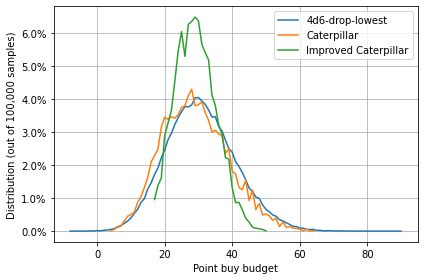
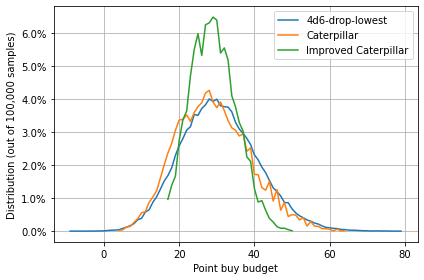
Update documentation

diff --git a/searchindex.js b/searchindex.js
@@ -1,1 +1,1 @@
-Search.setIndex({docnames:["alternatives","arrays","body","code","context","individual-stats","intro"],envversion:{"sphinx.domains.c":2,"sphinx.domains.changeset":1,"sphinx.domains.citation":1,"sphinx.domains.cpp":3,"sphinx.domains.index":1,"sphinx.domains.javascript":2,"sphinx.domains.math":2,"sphinx.domains.python":2,"sphinx.domains.rst":2,"sphinx.domains.std":2,"sphinx.ext.intersphinx":1,"sphinxcontrib.bibtex":7,sphinx:56},filenames:["alternatives.ipynb","arrays.ipynb","body.md","code.ipynb","context.md","individual-stats.ipynb","intro.md"],objects:{},objnames:{},objtypes:{},terms:{"000":5,"00000":[],"000000":3,"0083":[],"028320":[],"031000":[],"041726":[],"051224":[],"053691":[],"054968":[],"055325":[],"057972":[],"0614":[],"063932":[],"0664":[],"066674":[],"067291":[],"068864":[],"069552":[],"070100":[],"073866":[],"077063":[],"077584":[],"0785":[],"080301":[],"081265":[],"082147":[],"084965":3,"085074":[],"085607":[],"085847":[],"086427":[],"086691":[],"086706":[],"086803":[],"087960":[],"088016":[],"088424":3,"088609":[],"08866":[],"089550":[],"090269":[],"090514":[],"092030":[],"093246":[],"093491":[],"094415":[],"094569":[],"0967":[],"097396":[],"099887":[],"0x210aad12e48":[],"0x298aa08a948":[],"100":5,"1000":[],"10000":[],"100000":[1,3],"100_000":3,"103266":[],"105":[],"105852":[],"106":[],"107":[],"108":[],"109":[],"110872":[],"112184":[],"113417":[],"113421":[],"115059":[],"117046":[],"118388":[],"123709":[],"125576":[],"126081":[],"1318":[],"13th":[1,3],"13th_age_fig":3,"13th_age_stat":3,"143":[],"1435":[],"144":[],"145":[],"146":[],"147":[],"147069":[],"1541":[],"1639":[],"1656028701":[],"1777":[],"1916":[],"19680801":[],"1_000":[],"2014":[],"2020":[],"2021":[],"2026338885":[],"211333":[],"2191868119":[],"227500":[],"228833":[],"229500":[],"233667":[],"23522014":[],"236667":[],"239667":[],"2400429775":[],"243157":3,"243158":[],"244555":[],"245000":[],"246667":[],"247675":[],"249162":[],"2522":[],"253877":[],"255000":[],"255333":[],"257000":[],"261333":[],"261667":[],"2642":[],"268833":[],"275167":[],"276333":[],"276667":[],"2950123795":[],"3013065630":[],"3023713000":[],"309167":[],"3106":[],"315000":[],"319833":[],"3763001284":[],"3d6":[],"4004147693":[],"407412":[],"412506":[],"4d6":[0,1,3,5,6],"4d6kh3":[],"600":5,"6000":[],"60000":[],"600000":[3,5],"612":[],"721684543":[],"750000":[],"7624":[],"7625":[],"7626":[],"7627":[],"7628":[],"78902":[],"791553":[],"792663":[],"795265":[],"800671":[],"805700":[],"805902":[],"807665":[],"812292":[],"813536":[],"815964":[],"818035":[],"819277":[],"819573":[],"820578":[],"821937":[],"822586":[],"825212":[],"827012":[],"828279":[],"828722":[],"829114":[],"829493":3,"829606":[],"829622":[],"830347":[],"831884":[],"833077":[],"83313":[],"834138":[],"838252":[],"842086":[],"842712":[],"846277":[],"847120":3,"847441":[],"848419":[],"84974":[],"849791":[],"850204":[],"850411":[],"851184":[],"854428":[],"854762":[],"85716":[],"858":[],"859":[],"860":[],"861":[],"861667":[],"862":[],"866966":[],"867438":[],"872448":[],"878500":[],"879489":[],"880119":[],"881756":[],"886":[],"887":[],"888":[],"889":[],"890":[],"894259":[],"903967":[],"907500":[],"915833":[],"924167":[],"925000":[],"927167":[],"929333":[],"934000":[],"934833":[],"938500":[],"940167":[],"941667":[],"941833":[],"943333":[],"947667":[],"950500":[],"952000":[],"952833":[],"95428":[],"954475":[],"956167":[],"956742":[],"957040":[],"957445":[],"957513":[],"957833":[],"958087":3,"958333":[],"958365":[],"958833":[],"958902":[],"959000":[],"959403":3,"959513":[],"959833":[],"960167":[],"960278":[],"960833":[],"962500":[],"963167":[],"966167":[],"967167":[],"967500":[],"969333":[],"971500":[],"972500":[],"975333":[],"979833":[],"983833":[],"985167":[],"990500":[],"case":[],"class":[],"default":[],"final":1,"function":[0,3],"import":[3,4],"int":[],"new":[],"return":[],"short":[],"true":3,"try":1,"while":[0,1,4],Age:[1,3],And:0,But:[],FOR:[],For:[0,1,6],One:1,The:[0,1,4,5],There:[0,1,4,6],These:[2,4],Using:0,__array_function__:[],__init__:[],__str__:[],__version__:[],_api:[],_distributor_init:[],_get_implementing_arg:[],_ioncontext:[],_multiarray_umath:[],abil:[1,3],abl:4,about:[1,2,4],abov:[0,1,3],accept:1,achiev:[1,4],acknowledg:0,across:1,activ:[],actual:[4,6],add:[1,4,6],add_:[],add_docstr:[],adding:0,addit:4,adequ:0,adopt:1,advantag:0,advic:[],again:[0,1,3],aim:[],albeit:1,align:[],all:[0,1,2,4,5,6],allow:[0,4],alreadi:1,also:[0,1,4,5,6],altern:[1,2],although:0,alwai:1,amd64:[],amount:1,anaconda3:[],analys:3,analysi:3,ani:0,anoth:[1,4],answer:1,anti:0,appdata:[],appeal:[],appear:5,append:3,applymap:3,approach:[],area:[2,4],arg:[],argument:[],around:0,arrai:[2,3,4],articl:[2,4],as_index:[],associ:[],assur:[],attribut:[],attributeerror:[],auditori:[],australia:[],avail:2,averag:[0,1,4],avoid:[0,4],axes:3,axi:3,back:[4,6],bad:[0,6],balanc:[1,4],bar:[],base:[0,1,4],basi:[],becaus:[0,1],becom:[2,4],been:0,befor:1,beg:5,begin:[],being:[0,6],believ:0,belli:6,bello:[],below:[0,1,3,5],better:[0,1,4,6],between:[0,1,5],bib:[],bibliographi:[],bibtex:[],bit:1,bjtja:[],block:[],blog:[2,4],blue:5,board:1,bonus:4,book:2,bool:[],both:[1,5],bother:5,bottom:[0,4,6],box:[],brian:[],brisban:[],budget:[0,1,3],bui:[0,1,3],build:4,built:[],calcul:[0,1],call:4,can:[0,2,4,5],carefulli:[],caterpillar:[0,1,3,5,6],caterpillar_stat_arrai:3,caterpillar_stat_array2:3,caterpillar_with_one_random_di:3,cbook:[],cell:[],centr:[4,6],certain:[],challeng:4,chanc:[0,1],chang:[4,6],chapter:2,charact:[0,1,2,4,5],chart:0,check:[],choic:4,choos:4,christoph:[],cite:[],clever:4,click:[],close:[],closer:[0,1],cmap:[],code:[0,2],cognit:[],col:[],cold:[],color:[],colour:1,column:3,com:[],command:[],comment:[],commentari:0,common:4,commonmark:[],compar:[0,2,4,5],compat:[],compel:0,compil:[],complex:5,comput:[],con:0,concat:3,condit:[],confer:[],confirm:1,consid:[0,1,2,4,5],consider:0,consist:[1,4,5],constrain:0,constraint:4,content:[],context:2,continu:5,contrast:0,convert:1,coolwarm:[],core:[],corr_fig:3,correct:[],correctli:4,correl:[0,3],correlationanalysi:3,corrobor:5,cortex:[],cost:[1,3],could:0,count:[1,3,5],coupl:0,cover:1,creat:[2,3,4],create_count:3,creation:[2,4],criteria:[],cube:[4,6],curv:5,custom_lin:[],cycler:[],data:[],datafram:3,dataframegroupbi:[],decid:1,decim:3,def:[],defin:[],definit:[],degre:0,demonstr:5,depend:[],deprec:[],describ:3,desiderata:[],design:4,despit:0,det:[],determinist:4,devdoc:[],deviat:[0,1,5],dice:[0,1,2,4],die:1,differ:[0,1,2,4],differen:1,difficult:4,directli:[],discuss:1,displai:3,distribut:[0,1,3,5],divers:0,dll:[],dnd2021:[],doc:[],docstr:[],document:[],doe:[0,1,5],doesn:[0,4,6],dollar:[],don:4,done:[],dot:[],downsid:0,drop:[0,1,3,5,6],dropna:[],due:[],dungeon:4,dure:[],each:[0,1,2,4,5],easi:4,easili:4,ecosystem:[],effect:[0,1],either:[],elif:[],els:[],emb:[],encount:[1,4],end:[],enough:[],ensur:[],entir:[],enumer:[],env:[],env_ad:[],envkei:[],equal:[4,6],error:[],escap:[],etc:[],even:[0,1],everyth:1,evid:[],exampl:[1,6],exc:[],except:[],exclus:[],exe:[],execut:[],exist:[],expect:[0,1,4],expos:[4,6],extend:[1,3],extens:[],extent:[],extrem:1,face:[0,1,4,6],fail:[],fairli:5,fall:[],fals:3,featur:0,feel:[0,4],felt:[],few:4,fifth:0,fig:3,fig_13th_ag:3,fig_one_random:3,figsiz:3,figur:1,find:5,first:[1,4],five:4,fix:[],flavor:[],focu:1,focus:[],follow:[1,4,5,6],forc:0,format:3,former:1,found:5,four:[1,4],four_d_six_drop_lowest:3,fourth:0,frame:[],from:[0,1,3],front:[4,6],front_fac:[],front_face_coord:[],frontier:[],fun:1,function_bas:[],further:1,game:1,gener:[0,1,2,3,4,5,6],get:4,get_adjacent_edg:[],get_dic:[],get_group:[],github:[],given:1,glue:3,gnu:[],goal:1,goblin:[1,2,5,6],good:[0,1,2,4,6],gpr:[],graph:[0,3],green:5,grid:3,group_kei:[],groupbi:3,grouper:[],guid:[],had:[],hand:0,handl:[],happen:[],happi:1,hard:1,harder:4,has:[0,1,5],have:[0,1,4,5],hdhpk14:[],heer:[],hello:[],help:1,henc:[],henchman:[2,4],here:[0,1],hidden:0,hide:[],high:[0,1,4],higher:[1,5],highest:[1,4],hobgoblin:[],holdgraf:[],holdgraf_evidence_2014:[],hot:[],how:[0,2,4,5],howev:[0,1,4,5],html:[],http:[],human:[],hybrid:0,icon:[],idea:4,ideal:1,ignor:4,imag:[],impact:1,implement_array_funct:[],importerror:[],importlib:3,improv:[0,1,2,3,5],in_axi:[],includ:[],incompat:[],increas:1,incred:[0,4],independ:0,index:3,indic:[1,6],individu:[0,2],inform:[],init:[],initi:4,input:[],insert:[],insid:[],insignific:[],instal:[],instead:[0,4,6],intel:[],intelpython:[],interact:4,interest:1,intern:[],interquartil:0,intro:[],introduc:2,intuit:[0,1],invalid:[],investig:[],involv:[2,4],ion:[],ipykernel_10660:[],ipykernel_11240:[],ipykernel_11548:[],ipykernel_12928:[],ipykernel_13936:[],ipykernel_14060:[],ipykernel_14752:[],ipykernel_17760:[],ipykernel_17944:[],ipykernel_18496:[],ipykernel_18508:[],ipykernel_20584:[],ipykernel_21276:[],ipykernel_2168:[],ipykernel_21932:[],ipykernel_22876:[],ipykernel_24016:[],ipykernel_25264:[],ipykernel_26620:[],ipykernel_27904:[],ipykernel_28524:[],ipykernel_7012:[],ipynb:[],isinst:[],issu:[],item:3,iter:3,its:[],job:4,jul:[],jupyt:[],jupytext:[],just:1,keep:0,kei:[1,3],kernel:[],keyboardinterrupt:[],keyerror:[],kind:[],knight:[],know:[],kwarg:[],la_:[],label:3,lack:0,lambda:3,languag:[],larg:1,larger:5,last:[],later:4,latter:1,launch:[],lead:4,left:[0,4,6],left_fac:[],left_face_coord:[],left_face_idx:[],legend:3,less:[0,1,4],let:2,level:4,lib:[],lighter:1,like:[0,1,4],linalg:[],line2d:[],line:[3,5],line_plot:3,linear:0,link:[1,3],linspac:[],list:[],listcomp:[],live:[],load:[],loc:3,local:[],logspac:[],look:[0,1,2,5],lot:0,low:[0,1,4],lower:[0,1,4,5],lowest:[0,1,3,5,6],mai:[0,1,4],make:[0,1,4],mani:1,markedli:[],markup:[],master:4,math:[],matplotlib:3,matplotlibdeprecationwarn:[],matplotlylib:[],matter:0,max:[0,1,3,5],mayb:[],mbox:[],mean:[0,1,3,5],meanwhil:5,measur:1,medium:[],meet:[],merit:1,metadata:[],method:[1,2,5,6],million:[],min:[0,1,3,5],minimum:0,miss:[],mkl:[],modul:[],modulenotfounderror:[],more:[0,1,4,5],moreoev:[],most:[0,4,6],mostli:[],mpldeprec:[],msc:[],msg:[],mtick:[],much:[0,4],multiarrai:[],multipl:2,must:[],mutat:[],mybind:[],mydirectivenam:[],myst_nb:3,name:[],narrow:[0,1],nbsp:[],ncol:3,need:0,neg:[0,1],neurosci:[],next:[0,1,4,5],nodefault:[],none:[],normal:[1,3],note:1,notebook:[],notic:[],nov:[],now:1,nsigfig:3,num_ability_scor:3,num_iter:3,num_sampl:3,number:[0,1,2,4],numer:4,numpi:[],obj:[],object:[],observ:[],occur:1,offset:[0,1],often:[],onc:[],one:[0,1,4,6],one_random_fig:3,one_random_stat:3,onedr:[],onli:[0,1,3,4,6],openmp:[],oper:[],opinion:1,oppos:0,opposit:[1,4],option:0,org:[],origin:1,other:[0,1,2,4,6],our:1,out:3,outlin:1,output:[],over:[],overal:[0,5],overrid:[],own:[0,2],packag:[],page:[],pair:1,panda:3,pandashelp:3,part:4,parti:[1,4],partial:0,paslei:[],path:3,pattern:[],peak:0,penalti:4,peopl:1,per:1,percent_formatt:3,percentformatt:3,perform:[0,4,5],person:0,pinv:[],player:[0,1,4,6],pleas:[],plot:3,plotli:[],plt:3,point:[0,1,3],point_bui:3,point_buy_13th_ag:3,point_buy_cost:3,point_buy_costs_df:3,point_buy_count:3,point_buy_dict:3,point_buy_dist_fig:3,point_buy_fig:3,point_buy_one_random:3,point_buy_orig:3,point_buy_summ:3,popular:1,posit:1,possibl:[1,4,5],post:[],potenti:0,power:[0,1,4],pre:[],predict:[],prefer:[0,1],previou:[],primari:1,print:[],pro:0,probabl:[1,6],process:4,produc:[1,5],prop_cycl:[],properli:[],provid:[0,2],pure:0,purport:4,purpos:[],pyplot:3,python3:[],python:3,question:5,rais:[],ramsai:[],ran:5,randint:[],randn:[],random:[0,1],randomis:4,randomli:0,rang:[0,1,3,5],rather:1,rcparam:[],rcsetup:[],read:[],readi:[],realli:[0,6],reason:[],recal:1,receiv:4,recent:[2,4],record:3,reduc:[0,1,4,6],refer:0,reflect:[0,1],regular:[],reinforc:5,rel:0,relationship:1,reload:3,render:[],repeat:4,replac:3,replic:6,report:[],report_t:[],reportt:[],repres:[1,2,4],reproduc:[],requir:[0,1,4],respect:0,rest:[],result:[0,1,4,5],right:[0,1,4,6],robert:[],rocket:[],role:[],rolenam:[],roll:[1,2,3,4,6],rolled_di:[],rotat:[],roughli:[],row:[],rule:4,run:[],runtimewarn:[],safe:[],sai:1,same:[0,1,2,4,5],sampl:3,sanitize_sequ:[],saw:[],scenario1:3,scenario2:3,scenario3:3,scenario4:3,scenario:3,scenarios_df:3,schedul:[1,3],scipi:[],score:[1,3,5],seciton:[],second:1,section:[0,1,4,5],see:[0,1],seed:[],seem:[0,1,4],seen:[0,1,5],select:[],self:[],sens:[0,1],separ:1,serv:[],servic:[],session:1,set:[3,6],set_major_formatt:3,set_xlabel:3,set_ylabel:3,set_ylim:3,setup:[],shape:[0,5],share:[2,4],ship:[],should:[],show:[0,1,2,4],show_stats_distribut:[],show_summary_statistics_stat:[],shown:[0,1],side:[1,2,4],sig_fig:3,sign:[],significantli:0,similar:[0,1,2,5],simpl:[0,1],simpler:0,simplest:[],simpli:0,simul:[],singl:1,site:[],situat:0,six:[1,2,4],sixth:0,skew:0,slight:[],slightli:[0,1,5],small:[0,1,2],smoother:5,solv:[],some:[0,1,2,4,5,6],someth:1,sometim:[],somewhat:0,sort:[],sound:[],span:[],spatial:[],specif:1,specifi:[],sphinx:[],spread:[0,1],squeez:[],src:3,stand:[],standard:[0,1,4,5],stat:[2,3,4,6],stat_arrai:[],stat_count:3,stat_gener:3,stat_label:3,statarrai:3,state:[],statist:[],stats_13th_ag:3,stats_above_13:3,stats_above_15:3,stats_arrays_to_pd:3,stats_below_10:3,stats_distribution_fig:3,stats_one_random:3,stats_to_gener:3,std:[1,3,5],stddev:[],still:0,store:[],str:3,strength:0,strong:[0,4,5],stronger:1,structur:[],studi:[],subject:[0,4],subplot:3,suggest:0,sum:[0,1,3,4,6],summari:3,summary_point_buy_df:3,summary_stat:3,summary_stats_df:3,suppos:1,supralinear:1,sure:[],symmetri:0,syntax:[],sys:3,tabl:1,tablesj:[],tag:[],tandem:[],techniqu:1,temp:[],tend:1,test_update_pi:[],tex:[],text:[],than:[0,1,4,5],thei:[0,1],them:4,therefor:[],thi:[0,1,2,4,5,6],think:[],third:[],thirtheenth_ag:3,those:[1,2],three:[1,2,4,5],through:1,thu:1,ticker:3,tight_layout:3,time:[],tip:[],tool:[],top:[1,4,6],top_and_front_fac:[],top_and_front_posit:[],top_fac:[],top_face_coord:[],total:[1,3],totals_13th_ag:3,totals_one_random:3,traceback:[],transform:[],troubleshoot:[],true_divid:[],tweak:4,two:[0,1,5],type:1,typeerror:[],under:[0,1,2,4,5],underneath:5,understand:1,undesir:1,unfamiliar:[1,2],unimport:0,union:[],uniqu:[],unrolled_di:[],upsid:0,use:[0,4],used:[0,1],user:[],userwarn:[],uses:[],using:[0,2,4,5],usual:0,valid:[],valu:1,valuabl:0,vari:5,variabl:[0,4],variat:1,veri:[0,1,4,5],verifi:5,version:[],version_info:[],viabl:0,view:5,visibl:[0,5],volatil:[],vstack:[],wai:[0,1,4],wait:[],want:1,weak:[0,4],weaker:[0,1],weakref:[],well:[],wendi:[],were:[],what:[4,5],when:[1,2,5],whenev:1,where:0,wherea:[],whether:[],which:[0,1,2,4,5],who:4,why:5,widget:[0,2],window:[],wise:1,within:[],without:[],work:4,worri:[],wors:0,would:[1,4],write:[],written:[],xmax:3,yaxi:3,yellow:5,you:[0,2,4],your:[0,1,2,4]},titles:["Alternative Methods","Stat Arrays","Body","Code","Context","Individual Stats","tl;dr"],titleterms:{"13th":0,"3d6":0,"4d6":4,"new":0,Adding:[],Age:0,The:[],Using:[],altern:0,analysi:1,approach:[],arrai:1,block:[],bodi:2,book:[],can:1,caterpillar:4,charact:[],citat:[],code:3,compar:1,conclus:5,content:[],context:4,correl:1,desiderata:0,detail:[],direct:[],drop:4,execut:[],file:[],gener:[],goblin:4,how:1,improv:4,individu:5,issu:4,jupyt:[],lowest:4,markdown:[],method:[0,4],more:[],much:1,myst:[],notebook:[],outlin:[],output:[],overal:[],possibl:0,role:[],roll:0,scenario:1,set:0,simul:[1,5],stat:[0,1,5],statist:[1,5],summari:[0,1,4,5],too:1,using:[],volatil:1,what:1,your:[]}})
+Search.setIndex({docnames:["alternatives","arrays","body","code","context","individual-stats","intro"],envversion:{"sphinx.domains.c":2,"sphinx.domains.changeset":1,"sphinx.domains.citation":1,"sphinx.domains.cpp":3,"sphinx.domains.index":1,"sphinx.domains.javascript":2,"sphinx.domains.math":2,"sphinx.domains.python":2,"sphinx.domains.rst":2,"sphinx.domains.std":2,"sphinx.ext.intersphinx":1,"sphinxcontrib.bibtex":7,sphinx:56},filenames:["alternatives.ipynb","arrays.ipynb","body.md","code.ipynb","context.md","individual-stats.ipynb","intro.md"],objects:{},objnames:{},objtypes:{},terms:{"000":5,"00000":[],"000000":3,"0083":[],"028320":[],"031000":[],"041726":[],"051224":[],"053691":[],"054968":[],"055325":[],"057972":[],"0614":[],"063932":[],"0664":[],"066674":[],"067291":[],"068864":[],"069552":[],"070100":[],"073866":[],"077063":[],"077584":[],"0785":[],"080301":[],"081265":[],"082147":[],"084965":[],"085074":[],"085607":[],"085695":3,"085847":[],"086204":3,"086427":[],"086691":[],"086706":[],"086803":[],"087960":[],"088016":[],"088424":[],"088609":[],"08866":[],"089550":[],"090269":[],"090514":[],"092030":[],"093246":[],"093491":[],"094415":[],"094569":[],"0967":[],"097396":[],"099887":[],"0x210aad12e48":[],"0x298aa08a948":[],"100":5,"1000":[],"10000":[],"100000":[1,3],"100_000":3,"103266":[],"105":[],"105852":[],"106":[],"107":[],"108":[],"109":[],"110872":[],"112184":[],"113417":[],"113421":[],"115059":[],"117046":[],"118388":[],"123709":[],"125576":[],"126081":[],"1318":[],"13th":[1,3],"13th_age_fig":3,"13th_age_stat":3,"143":[],"1435":[],"144":[],"145":[],"146":[],"147":[],"147069":[],"1541":[],"1639":[],"1656028701":[],"1777":[],"1916":[],"19680801":[],"1_000":[],"2014":[],"2020":[],"2021":[],"2026338885":[],"211333":[],"2191868119":[],"227500":[],"228833":[],"229500":[],"233667":[],"234287":3,"23522014":[],"236667":[],"239667":[],"2400429775":[],"243157":[],"243158":[],"244555":[],"245000":[],"246667":[],"247675":[],"249162":[],"2522":[],"253877":[],"255000":[],"255333":[],"257000":[],"261333":[],"261667":[],"2642":[],"268833":[],"275167":[],"276333":[],"276667":[],"2950123795":[],"3013065630":[],"3023713000":[],"309167":[],"3106":[],"315000":[],"319833":[],"3763001284":[],"3d6":[],"4004147693":[],"407412":[],"412506":[],"4d6":[0,1,3,5,6],"4d6kh3":[],"600":5,"6000":[],"60000":[],"600000":[3,5],"612":[],"721684543":[],"750000":[],"7624":[],"7625":[],"7626":[],"7627":[],"7628":[],"78902":[],"791553":[],"792663":[],"795265":[],"800671":[],"805700":[],"805902":[],"807665":[],"812292":[],"813536":[],"815964":[],"818035":[],"819277":[],"819573":[],"820578":[],"821937":[],"822586":[],"825212":[],"827012":[],"828279":[],"828722":[],"829114":[],"829493":[],"829606":[],"829622":[],"830347":[],"830352":3,"831884":[],"833077":[],"83313":[],"834138":[],"838252":[],"842086":[],"842712":[],"846277":[],"847120":[],"847441":[],"848419":[],"84974":[],"849791":[],"850204":[],"850411":[],"851184":[],"851207":3,"854428":[],"854762":[],"85716":[],"858":[],"859":[],"860":[],"861":[],"861667":[],"862":[],"866966":[],"867438":[],"872448":[],"878500":[],"879489":[],"880119":[],"881756":[],"886":[],"887":[],"888":[],"889":[],"890":[],"894259":[],"903967":[],"907500":[],"915833":[],"924167":[],"925000":[],"927167":[],"929333":[],"934000":[],"934833":[],"938500":[],"940167":[],"941667":[],"941833":[],"943333":[],"947667":[],"950500":[],"952000":[],"952833":[],"95428":[],"954475":[],"956167":[],"956742":[],"957040":[],"957445":[],"957513":[],"957833":[],"958087":[],"958333":[],"958362":3,"958365":[],"958833":[],"958902":[],"959000":[],"959403":[],"959513":[],"959833":[],"960167":[],"960278":[],"960833":[],"961397":3,"962500":[],"963167":[],"966167":[],"967167":[],"967500":[],"969333":[],"971500":[],"972500":[],"975333":[],"979833":[],"983833":[],"985167":[],"990500":[],"case":[],"class":[],"default":[],"final":1,"function":[0,3],"import":[3,4],"int":[],"new":[],"return":[],"short":[],"true":3,"try":1,"while":[0,1,4],Age:[1,3],And:0,But:[],FOR:[],For:[0,1,6],One:1,The:[0,1,4,5],There:[0,1,4,6],These:[2,4],Using:0,__array_function__:[],__init__:[],__str__:[],__version__:[],_api:[],_distributor_init:[],_get_implementing_arg:[],_ioncontext:[],_multiarray_umath:[],abil:[1,3],abl:4,about:[1,2,4],abov:[0,1,3],accept:1,achiev:[1,4],acknowledg:0,across:1,activ:[],actual:[4,6],add:[1,4,6],add_:[],add_docstr:[],adding:0,addit:4,adequ:0,adopt:1,advantag:0,advic:[],again:[0,1,3],aim:[],albeit:1,align:[],all:[0,1,2,4,5,6],allow:[0,4],alreadi:1,also:[0,1,4,5,6],altern:[1,2],although:0,alwai:1,amd64:[],amount:1,anaconda3:[],analys:3,analysi:3,ani:0,anoth:[1,4],answer:1,anti:0,appdata:[],appeal:[],appear:5,append:3,applymap:3,approach:[],area:[2,4],arg:[],argument:[],around:0,arrai:[2,3,4],articl:[2,4],as_index:[],associ:[],assur:[],attribut:[],attributeerror:[],auditori:[],australia:[],avail:2,averag:[0,1,4],avoid:[0,4],axes:3,axi:3,back:[4,6],bad:[0,6],balanc:[1,4],bar:[],base:[0,1,4],basi:[],becaus:[0,1],becom:[2,4],been:0,befor:1,beg:5,begin:[],being:[0,6],believ:0,belli:6,bello:[],below:[0,1,3,5],better:[0,1,4,6],between:[0,1,5],bib:[],bibliographi:[],bibtex:[],bit:1,bjtja:[],block:[],blog:[2,4],blue:5,board:1,bonus:4,book:2,bool:[],both:[1,5],bother:5,bottom:[0,4,6],box:[],brian:[],brisban:[],budget:[0,1,3],bui:[0,1,3],build:4,built:[],calcul:[0,1],call:4,can:[0,2,4,5],carefulli:[],caterpillar:[0,1,3,5,6],caterpillar_stat_arrai:3,caterpillar_stat_array2:3,caterpillar_with_one_random_di:3,cbook:[],cell:[],centr:[4,6],certain:[],challeng:4,chanc:[0,1],chang:[4,6],chapter:2,charact:[0,1,2,4,5],chart:0,check:[],choic:4,choos:4,christoph:[],cite:[],clever:4,click:[],close:[],closer:[0,1],cmap:[],code:[0,2],cognit:[],col:[],cold:[],color:[],colour:1,column:3,com:[],command:[],comment:[],commentari:0,common:4,commonmark:[],compar:[0,2,4,5],compat:[],compel:0,compil:[],complex:5,comput:[],con:0,concat:3,condit:[],confer:[],confirm:1,consid:[0,1,2,4,5],consider:0,consist:[1,4,5],constrain:0,constraint:4,content:[],context:2,continu:5,contrast:0,convert:1,coolwarm:[],core:[],corr_fig:3,correct:[],correctli:4,correl:[0,3],correlationanalysi:3,corrobor:5,cortex:[],cost:[1,3],could:0,count:[1,3,5],coupl:0,cover:1,creat:[2,3,4],create_count:3,creation:[2,4],criteria:[],cube:[4,6],curv:5,custom_lin:[],cycler:[],data:[],datafram:3,dataframegroupbi:[],decid:1,decim:3,def:[],defin:[],definit:[],degre:0,demonstr:5,depend:[],deprec:[],describ:3,desiderata:[],design:4,despit:0,det:[],determinist:4,devdoc:[],deviat:[0,1,5],dice:[0,1,2,4],die:1,differ:[0,1,2,4],differen:[],difficult:4,directli:[],discuss:1,displai:3,distribut:[0,1,3,5],divers:0,dll:[],dnd2021:[],doc:[],docstr:[],document:[],doe:[0,1,5],doesn:[0,4,6],dollar:[],don:4,done:[],dot:[],downsid:0,drop:[0,1,3,5,6],dropna:[],due:[],dungeon:4,dure:[],each:[0,1,2,4,5],easi:4,easili:4,ecosystem:[],effect:[0,1],either:[],elif:[],els:[],emb:[],encount:[1,4],end:[],enough:[],ensur:[],entir:[],enumer:[],env:[],env_ad:[],envkei:[],equal:[4,6],error:[],escap:[],etc:[],even:[0,1],everi:1,everyth:[],evid:[],exampl:[1,6],exc:[],except:[],exclus:[],exe:[],execut:[],exist:[],expect:[0,1,4],expos:[4,6],extend:[1,3],extens:[],extent:[],extrem:1,face:[0,1,4,6],fail:[],fairli:5,fall:[],fals:3,featur:0,feel:[0,4],felt:[],few:4,fifth:0,fig:3,fig_13th_ag:3,fig_one_random:3,figsiz:3,figur:1,find:5,first:[1,4],five:4,fix:[],flavor:[],focu:1,focus:[],follow:[1,4,5,6],forc:0,format:3,former:1,found:5,four:[1,4],four_d_six_drop_lowest:3,fourth:0,frame:[],from:[0,1,3],front:[4,6],front_fac:[],front_face_coord:[],frontier:[],fun:1,function_bas:[],further:1,game:1,gener:[0,1,2,3,4,5,6],get:4,get_adjacent_edg:[],get_dic:[],get_group:[],github:[],given:1,glue:3,gnu:[],goal:1,goblin:[1,2,5,6],good:[0,1,2,4,6],gpr:[],graph:[0,3],green:5,grid:3,group_kei:[],groupbi:3,grouper:[],guid:[],had:[],hand:0,handl:[],happen:[],happi:1,hard:1,harder:4,has:[0,1,5],have:[0,1,4,5],hdhpk14:[],heer:[],hello:[],help:1,henc:[],henchman:[2,4],here:[0,1],hidden:0,hide:[],high:[0,1,4],higher:[1,5],highest:[1,4],hobgoblin:[],holdgraf:[],holdgraf_evidence_2014:[],hot:[],how:[0,2,4,5],howev:[0,1,4,5],html:[],http:[],human:[],hybrid:0,icon:[],idea:4,ideal:1,ignor:4,imag:[],impact:1,implement_array_funct:[],importerror:[],importlib:3,improv:[0,1,2,3,5],in_axi:[],includ:[],incompat:[],increas:1,incred:[0,4],independ:0,index:3,indic:[1,6],individu:[0,2],inform:[],init:[],initi:4,input:[],insert:[],insid:[],insignific:[],instal:[],instead:[0,4,6],intel:[],intelpython:[],interact:4,interest:1,intern:[],interquartil:0,intro:[],introduc:2,intuit:[0,1],invalid:[],investig:[],involv:[2,4],ion:[],ipykernel_10660:[],ipykernel_11240:[],ipykernel_11548:[],ipykernel_12928:[],ipykernel_13936:[],ipykernel_14060:[],ipykernel_14752:[],ipykernel_17760:[],ipykernel_17944:[],ipykernel_18496:[],ipykernel_18508:[],ipykernel_20584:[],ipykernel_21276:[],ipykernel_2168:[],ipykernel_21932:[],ipykernel_22876:[],ipykernel_24016:[],ipykernel_25264:[],ipykernel_26620:[],ipykernel_27904:[],ipykernel_28524:[],ipykernel_7012:[],ipynb:[],isinst:[],issu:[],item:3,iter:3,its:[],job:4,jul:[],jupyt:[],jupytext:[],just:1,keep:0,kei:[1,3],kernel:[],keyboardinterrupt:[],keyerror:[],kind:[],knight:[],know:[],kwarg:[],la_:[],label:3,lack:0,lambda:3,languag:[],larg:1,larger:5,last:[],later:4,latter:1,launch:[],lead:4,left:[0,4,6],left_fac:[],left_face_coord:[],left_face_idx:[],legend:3,less:[0,1,4],let:2,level:4,lib:[],lighter:1,like:[0,1,4],linalg:[],line2d:[],line:[3,5],line_plot:3,linear:0,link:[1,3],linspac:[],list:[],listcomp:[],live:[],load:[],loc:3,local:[],logspac:[],look:[0,1,2,5],lot:0,low:[0,1,4],lower:[0,1,4,5],lowest:[0,1,3,5,6],mai:[0,1,4],make:[0,1,4],mani:1,markedli:[],markup:[],master:4,math:[],matplotlib:3,matplotlibdeprecationwarn:[],matplotlylib:[],matter:0,max:[0,1,3,5],mayb:[],mbox:[],mean:[0,1,3,5],meanwhil:5,measur:1,medium:[],meet:[],merit:1,metadata:[],method:[1,2,5,6],million:[],min:[0,1,3,5],minimum:0,miss:[],mkl:[],modul:[],modulenotfounderror:[],more:[0,1,4,5],moreoev:[],most:[0,4,6],mostli:[],mpldeprec:[],msc:[],msg:[],mtick:[],much:[0,4],multiarrai:[],multipl:2,must:[],mutat:[],mybind:[],mydirectivenam:[],myst_nb:3,name:[],narrow:[0,1],nbsp:[],ncol:3,need:0,neg:[0,1],neurosci:[],next:[0,1,4,5],nodefault:[],none:[],normal:[1,3],note:1,notebook:[],notic:[],nov:[],now:1,nsigfig:3,num_ability_scor:3,num_iter:3,num_sampl:3,number:[0,1,2,4],numer:4,numpi:[],obj:[],object:[],observ:[],occur:1,offset:[0,1],often:[],onc:[],one:[0,1,4,6],one_random_fig:3,one_random_stat:3,onedr:[],onli:[0,1,3,4,6],openmp:[],oper:[],opinion:1,oppos:0,opposit:[1,4],option:0,org:[],origin:1,other:[0,1,2,4,6],our:1,out:3,outlin:1,output:[],over:[],overal:[0,5],overrid:[],own:[0,2],packag:[],page:[],pair:1,panda:3,pandashelp:3,part:4,parti:[1,4],partial:0,paslei:[],path:3,pattern:[],peak:0,penalti:4,peopl:1,per:1,percent_formatt:3,percentformatt:3,perform:[0,4,5],person:0,pinv:[],player:[0,1,4,6],pleas:[],plot:3,plotli:[],plt:3,point:[0,1,3],point_bui:3,point_buy_13th_ag:3,point_buy_cost:3,point_buy_costs_df:3,point_buy_count:3,point_buy_dict:3,point_buy_dist_fig:3,point_buy_fig:3,point_buy_one_random:3,point_buy_orig:3,point_buy_summ:3,popular:1,posit:1,possibl:[1,4,5],post:[],potenti:0,power:[0,1,4],pre:[],predict:[],prefer:[0,1],previou:[],primari:1,print:[],pro:0,probabl:[1,6],process:4,produc:[1,5],prop_cycl:[],properli:[],provid:[0,2],pure:0,purport:4,purpos:[],pyplot:3,python3:[],python:3,question:5,rais:[],ramsai:[],ran:5,randint:[],randn:[],random:[0,1],randomis:4,randomli:0,rang:[0,1,3,5],rather:[],rcparam:[],rcsetup:[],read:[],readi:[],realli:[0,6],reason:[],recal:1,receiv:4,recent:[2,4],record:3,reduc:[0,1,4,6],refer:0,reflect:[0,1],regular:[],reinforc:5,rel:[0,1],relationship:1,reload:3,render:[],repeat:4,replac:3,replic:6,report:[],report_t:[],reportt:[],repres:[1,2,4],reproduc:[],requir:[0,1,4],respect:0,rest:[],result:[0,1,4,5],right:[0,1,4,6],robert:[],rocket:[],role:[],rolenam:[],roll:[1,2,3,4,6],rolled_di:[],rotat:[],roughli:[],row:[],rule:4,run:[],runtimewarn:[],safe:[],sai:1,same:[0,1,2,4,5],sampl:3,sanitize_sequ:[],saw:[],scenario1:3,scenario2:3,scenario3:3,scenario4:3,scenario:3,scenarios_df:3,schedul:[1,3],scipi:[],score:[1,3,5],seciton:[],second:1,section:[0,1,4,5],see:[0,1],seed:[],seem:[0,1,4],seen:[0,1,5],select:[],self:[],sens:[0,1],separ:1,serv:[],servic:[],session:1,set:[3,6],set_major_formatt:3,set_xlabel:3,set_ylabel:3,set_ylim:3,setup:[],shape:[0,5],share:[2,4],ship:[],should:[],show:[0,1,2,4],show_stats_distribut:[],show_summary_statistics_stat:[],shown:[0,1],side:[1,2,4],sig_fig:3,sign:[],significantli:0,similar:[0,1,2,5],simpl:[0,1],simpler:0,simplest:[],simpli:0,simul:[],singl:1,site:[],situat:0,six:[1,2,4],sixth:0,skew:0,slight:[],slightli:[0,1,5],small:[0,1,2],smoother:5,solv:[],some:[0,1,2,4,5,6],someth:1,sometim:[],somewhat:0,sort:[],sound:[],span:[],spatial:[],specif:1,specifi:[],sphinx:[],spread:[0,1],squeez:[],src:3,stand:[],standard:[0,1,4,5],stat:[2,3,4,6],stat_arrai:[],stat_count:3,stat_gener:3,stat_label:3,statarrai:3,state:[],statist:[],stats_13th_ag:3,stats_above_13:3,stats_above_15:3,stats_arrays_to_pd:3,stats_below_10:3,stats_distribution_fig:3,stats_one_random:3,stats_to_gener:3,std:[1,3,5],stddev:[],still:0,store:[],str:3,strength:0,strong:[0,4,5],stronger:1,structur:[],studi:[],subject:[0,4],subplot:3,suggest:0,sum:[0,1,3,4,6],summari:3,summary_point_buy_df:3,summary_stat:3,summary_stats_df:3,suppos:1,supralinear:1,sure:[],symmetri:0,syntax:[],sys:3,tabl:1,tablesj:[],tag:[],tandem:[],techniqu:1,temp:[],tend:1,test_update_pi:[],tex:[],text:[],than:[0,1,4,5],thei:[0,1],them:4,therefor:[],thi:[0,1,2,4,5,6],think:[],third:[],thirtheenth_ag:3,those:[1,2],three:[1,2,4,5],through:1,thu:1,ticker:3,tight_layout:3,time:[],tip:[],tool:[],top:[1,4,6],top_and_front_fac:[],top_and_front_posit:[],top_fac:[],top_face_coord:[],total:[1,3],totals_13th_ag:3,totals_one_random:3,traceback:[],transform:[],troubleshoot:[],true_divid:[],tweak:4,two:[0,1,5],type:1,typeerror:[],under:[0,1,2,4,5],underneath:5,understand:1,undesir:1,unfamiliar:[1,2],unimport:0,union:[],uniqu:[],unrolled_di:[],upsid:0,use:[0,4],used:[0,1],user:[],userwarn:[],uses:[],using:[0,2,4,5],usual:0,valid:[],valu:1,valuabl:0,vari:5,variabl:[0,4],variat:1,veri:[0,1,4,5],verifi:5,version:[],version_info:[],viabl:0,view:5,visibl:[0,5],volatil:[],vstack:[],wai:[0,1,4],wait:[],want:1,weak:[0,4],weaker:[0,1],weakref:[],well:[],wendi:[],were:[],what:[4,5],when:[1,2,5],whenev:1,where:0,wherea:[],whether:[],which:[0,1,2,4,5],who:4,why:5,widget:[0,2],window:[],wise:1,within:[],without:[],work:4,worri:[],wors:0,would:[1,4],write:[],written:[],xmax:3,yaxi:3,yellow:5,you:[0,2,4],your:[0,1,2,4]},titles:["Alternative Methods","Stat Arrays","Body","Code","Context","Individual Stats","tl;dr"],titleterms:{"13th":0,"3d6":0,"4d6":4,"new":0,Adding:[],Age:0,The:[],Using:[],altern:0,analysi:1,approach:[],arrai:1,block:[],bodi:2,book:[],can:1,caterpillar:4,charact:[],citat:[],code:3,compar:1,conclus:5,content:[],context:4,correl:1,desiderata:0,detail:[],direct:[],drop:4,execut:[],file:[],gener:[],goblin:4,how:1,improv:4,individu:5,issu:4,jupyt:[],lowest:4,markdown:[],method:[0,4],more:[],much:1,myst:[],notebook:[],outlin:[],output:[],overal:[],possibl:0,role:[],roll:0,scenario:1,set:0,simul:[1,5],stat:[0,1,5],statist:[1,5],summari:[0,1,4,5],too:1,using:[],volatil:1,what:1,your:[]}})

diff --git a/arrays.html b/arrays.html
@@ -287,16 +287,16 @@
                 
   <div class="section" id="stat-arrays">
 <h1>Stat Arrays<a class="headerlink" href="#stat-arrays" title="Permalink to this headline">¶</a></h1>
-<p>The caterpillar methods are supposed to reduce the chance of players have very high or very low stats. Players having very high or low stats can be undesireable as it makes some characters much more powerful than others, and can make it for hard for a DM to balance encounters. This section shows that Goblin’s caterpillar method does <em>not</em> achieve this goal. However, the Improved Caterpillar method does.</p>
+<p>The caterpillar methods are supposed to reduce the chance of players have very high or very low stats. Players having very high or low stats can be undesirable as it makes some characters much more powerful than others, and can make it for hard for a DM to balance encounters. This section shows that Goblin’s caterpillar method does <em>not</em> achieve this goal. However, the Improved Caterpillar method does.</p>
 <div class="section" id="what-is-too-much-volatility">
 <h2>What is too much volatility?<a class="headerlink" href="#what-is-too-much-volatility" title="Permalink to this headline">¶</a></h2>
-<p>People have different standards about what is an “acceptable” amount of volatility between characters. Some parties are happy to have one player with many scores of 15 or higher, and another player with only one score above 15 and everything other stat below 12. For others, this difference would seem too large and would make the game less fun.</p>
+<p>People have different standards about what is an “acceptable” amount of volatility between characters. Some parties are happy to have one player with many scores of 15 or higher, and another player with only one score above 15 and every other stat below 12. For others, this difference would seem too large and would make the game less fun.</p>
 <p>There’s no right answer here. In my opinion, the volatility of 4d6-drop-lowest is a bit too large, and I would prefer something closer to the Improved Caterpillar method. However, it is possible to reduce the volatility of character stat arrays even further, for example 13th Age’s <a class="reference external" href="https://www.13thagesrd.com/character-rules/#Base_13_Random_Stat_Generation_DATP">Base 13 Random method</a>. Some may consider this an even stronger improvement above Improved Caterpillar, while others may say it reduces the volatility too much.</p>
 </div>
 <div class="section" id="how-can-we-compare-stat-arrays">
 <h2>How Can We Compare Stat Arrays?<a class="headerlink" href="#how-can-we-compare-stat-arrays" title="Permalink to this headline">¶</a></h2>
 <p>When comparing stat arrays, it is helpful to reduce the six ability scores to a single number representing how good the roll is. One simple way to do this would be to just add up the six scores.</p>
-<p>However, I consider having an ability score of 18 rather than 16 to be much better than having an ability score of 12 rather than 10. The former will probably increase your primary ability score and thus be used much more, while the latter many only have a small impact as it is probably not your character’s primary focus.</p>
+<p>However, I consider an ability score of 18 relative to 16 to be much better than an ability score of 12 relative to 10. The former will probably increase your primary ability score and thus be used much more, while the latter may only have a small impact as it is probably not your character’s primary focus.</p>
 <p>This is also reflected in the point buy method, which has a supralinear relationship for scores of 14+. For those interested this is outlined more <a class="reference external" href="https://www.skullsplitterdice.com/blogs/dnd/point-buy-5e">here</a>. Given this seems like a popular method of stat array generation, I have decided to adopt the costs for each ability score from this method. Because the point buy table only covers scores between 8 and 15, I have extended the table per the following schedule.</p>
 <div class="cell_output docutils container">
 <img alt="_images/code_7_0.png" src="_images/code_7_0.png" />
@@ -353,12 +353,12 @@
     <tr>
       <th>std</th>
       <td>10.2</td>
-      <td>9.79</td>
-      <td>5.95</td>
+      <td>9.76</td>
+      <td>5.96</td>
     </tr>
     <tr>
       <th>min</th>
-      <td>-8.0</td>
+      <td>-9.0</td>
       <td>4.0</td>
       <td>17.0</td>
     </tr>
@@ -382,7 +382,7 @@
     </tr>
     <tr>
       <th>max</th>
-      <td>90.0</td>
+      <td>79.0</td>
       <td>66.0</td>
       <td>50.0</td>
     </tr>
@@ -390,7 +390,7 @@
 </table>
 </div></div></div>
 <p>We see that the average budget is between 29 to 31. This is slightly higher than the budget normally used by point buy (27). <a class="reference external" href="https://old.reddit.com/r/DnD/comments/29r4nr/basic_dd_5e_is_out/cinqg3w/">Others</a> have already noted that 4d6-drop-lowest is expected to produce a higher budget than point buy. This now confirms that the caterpillar methods also expect to produce a better result than point-buy, albeit slightly lower than 4d6-drop-lowest.</p>
-<p>The key difference is the differene in the spread (represented by the standard deviation, or std). 4d6-drop-lowest has the highest standard deviation of 10.1, while Goblin’s Caterpillar method has a slightly lower standard deviation of 9.7. However, Improved Caterpillar has a much lower standard deviation of 6.0, which again confirms that this method is less likely to produce much stronger or weaker characters.</p>
+<p>The key difference is the difference in the spread (represented by the standard deviation, or std). 4d6-drop-lowest has the highest standard deviation of 10.1, while Goblin’s Caterpillar method has a slightly lower standard deviation of 9.7. However, Improved Caterpillar has a much lower standard deviation of 6.0, which again confirms that this method is less likely to produce much stronger or weaker characters.</p>
 </div>
 <div class="section" id="scenario-analysis">
 <h2>Scenario Analysis<a class="headerlink" href="#scenario-analysis" title="Permalink to this headline">¶</a></h2>
@@ -428,25 +428,25 @@
   <tbody>
     <tr>
       <th>Scenario 1</th>
-      <td>14.9%</td>
-      <td>14.2%</td>
+      <td>14.7%</td>
+      <td>14.3%</td>
       <td>5.8%</td>
     </tr>
     <tr>
       <th>Scenario 2</th>
-      <td>31.2%</td>
-      <td>25.5%</td>
-      <td>15.8%</td>
+      <td>31.0%</td>
+      <td>25.6%</td>
+      <td>15.9%</td>
     </tr>
     <tr>
       <th>Scenario 3</th>
-      <td>6.7%</td>
-      <td>7.7%</td>
+      <td>6.8%</td>
+      <td>7.4%</td>
       <td>0.8%</td>
     </tr>
     <tr>
       <th>Scenario 4</th>
-      <td>13.5%</td>
+      <td>13.8%</td>
       <td>17.5%</td>
       <td>9.8%</td>
     </tr>

diff --git a/code.html b/code.html
@@ -364,8 +364,8 @@
     <tr>
       <th>std</th>
       <td>2.85</td>
-      <td>3.08</td>
-      <td>3.08</td>
+      <td>3.09</td>
+      <td>3.09</td>
     </tr>
     <tr>
       <th>min</th>
@@ -497,12 +497,12 @@
     <tr>
       <th>std</th>
       <td>10.2</td>
-      <td>9.79</td>
-      <td>5.95</td>
+      <td>9.76</td>
+      <td>5.96</td>
     </tr>
     <tr>
       <th>min</th>
-      <td>-8.0</td>
+      <td>-9.0</td>
       <td>4.0</td>
       <td>17.0</td>
     </tr>
@@ -526,7 +526,7 @@
     </tr>
     <tr>
       <th>max</th>
-      <td>90.0</td>
+      <td>79.0</td>
       <td>66.0</td>
       <td>50.0</td>
     </tr>
@@ -590,25 +590,25 @@
   <tbody>
     <tr>
       <th>Scenario 1</th>
-      <td>14.9%</td>
-      <td>14.2%</td>
+      <td>14.7%</td>
+      <td>14.3%</td>
       <td>5.8%</td>
     </tr>
     <tr>
       <th>Scenario 2</th>
-      <td>31.2%</td>
-      <td>25.5%</td>
-      <td>15.8%</td>
+      <td>31.0%</td>
+      <td>25.6%</td>
+      <td>15.9%</td>
     </tr>
     <tr>
       <th>Scenario 3</th>
-      <td>6.7%</td>
-      <td>7.7%</td>
+      <td>6.8%</td>
+      <td>7.4%</td>
       <td>0.8%</td>
     </tr>
     <tr>
       <th>Scenario 4</th>
-      <td>13.5%</td>
+      <td>13.8%</td>
       <td>17.5%</td>
       <td>9.8%</td>
     </tr>
@@ -702,15 +702,15 @@
     </tr>
     <tr>
       <th>mean</th>
-      <td>12.243157</td>
-      <td>11.959403</td>
+      <td>12.234287</td>
+      <td>11.958362</td>
       <td>12.000000</td>
     </tr>
     <tr>
       <th>std</th>
-      <td>2.847120</td>
-      <td>3.084965</td>
-      <td>2.829493</td>
+      <td>2.851207</td>
+      <td>3.085695</td>
+      <td>2.830352</td>
     </tr>
     <tr>
       <th>min</th>
@@ -820,15 +820,15 @@
     </tr>
     <tr>
       <th>mean</th>
-      <td>12.243157</td>
-      <td>11.959403</td>
-      <td>11.958087</td>
+      <td>12.234287</td>
+      <td>11.958362</td>
+      <td>11.961397</td>
     </tr>
     <tr>
       <th>std</th>
-      <td>2.847120</td>
-      <td>3.084965</td>
-      <td>3.088424</td>
+      <td>2.851207</td>
+      <td>3.085695</td>
+      <td>3.086204</td>
     </tr>
     <tr>
       <th>min</th>

diff --git a/context.html b/context.html
@@ -253,7 +253,7 @@
   <div class="section" id="context">
 <h1>Context<a class="headerlink" href="#context" title="Permalink to this headline">¶</a></h1>
 <p>In D&amp;D, character creation involves creating six numbers (“stats”) which represent how good you are at six different areas. These six different stats become your “stat array”.</p>
-<p>There are numerous ways to create stat arrays. While some ways are deterministic (i.e. you get to choose what number each stat is, subject to some constraints), a common method to add some randomisation to this process is called “4d6-drop-lowest”. Under this method, you roll four dice and sum up the numbers on the three highest dice. The resulting sum becomes the one of your stats <a class="footnote-reference brackets" href="#id2" id="id1">1</a>. This is repeated for the other five stats.</p>
+<p>There are numerous ways to create stat arrays. While some ways are deterministic (i.e. you get to choose what number each stat is, subject to some constraints), a common method to add some randomisation to this process is called “4d6-drop-lowest”. Under this method, you roll four dice and sum up the numbers on the three highest dice. The resulting sum becomes one of your stats <a class="footnote-reference brackets" href="#id2" id="id1">1</a>. This is repeated for the other five stats.</p>
 <div class="section" id="issues-with-4d6-drop-lowest">
 <h2>Issues with 4d6-drop-lowest<a class="headerlink" href="#issues-with-4d6-drop-lowest" title="Permalink to this headline">¶</a></h2>
 <p>While this method allows for some randomisation, it can also lead to characters with consistently high or low stats. This can have a few issues:</p>

diff --git a/individual-stats.html b/individual-stats.html
@@ -319,8 +319,8 @@
     <tr>
       <th>std</th>
       <td>2.85</td>
-      <td>3.08</td>
-      <td>3.08</td>
+      <td>3.09</td>
+      <td>3.09</td>
     </tr>
     <tr>
       <th>min</th>

diff --git a/_sources/context.md b/_sources/context.md
@@ -3,7 +3,7 @@ Context
 
 In D&D, character creation involves creating six numbers ("stats") which represent how good you are at six different areas. These six different stats become your "stat array".
 
-There are numerous ways to create stat arrays. While some ways are deterministic (i.e. you get to choose what number each stat is, subject to some constraints), a common method to add some randomisation to this process is called "4d6-drop-lowest". Under this method, you roll four dice and sum up the numbers on the three highest dice. The resulting sum becomes the one of your stats [^1]. This is repeated for the other five stats.
+There are numerous ways to create stat arrays. While some ways are deterministic (i.e. you get to choose what number each stat is, subject to some constraints), a common method to add some randomisation to this process is called "4d6-drop-lowest". Under this method, you roll four dice and sum up the numbers on the three highest dice. The resulting sum becomes one of your stats [^1]. This is repeated for the other five stats.
 
 [^1]: This stat may receive additional bonuses or penalties based on other character building choices, but these do not interact with the initial stat array generation so I am ignoring them.
 ## Issues with 4d6-drop-lowest
